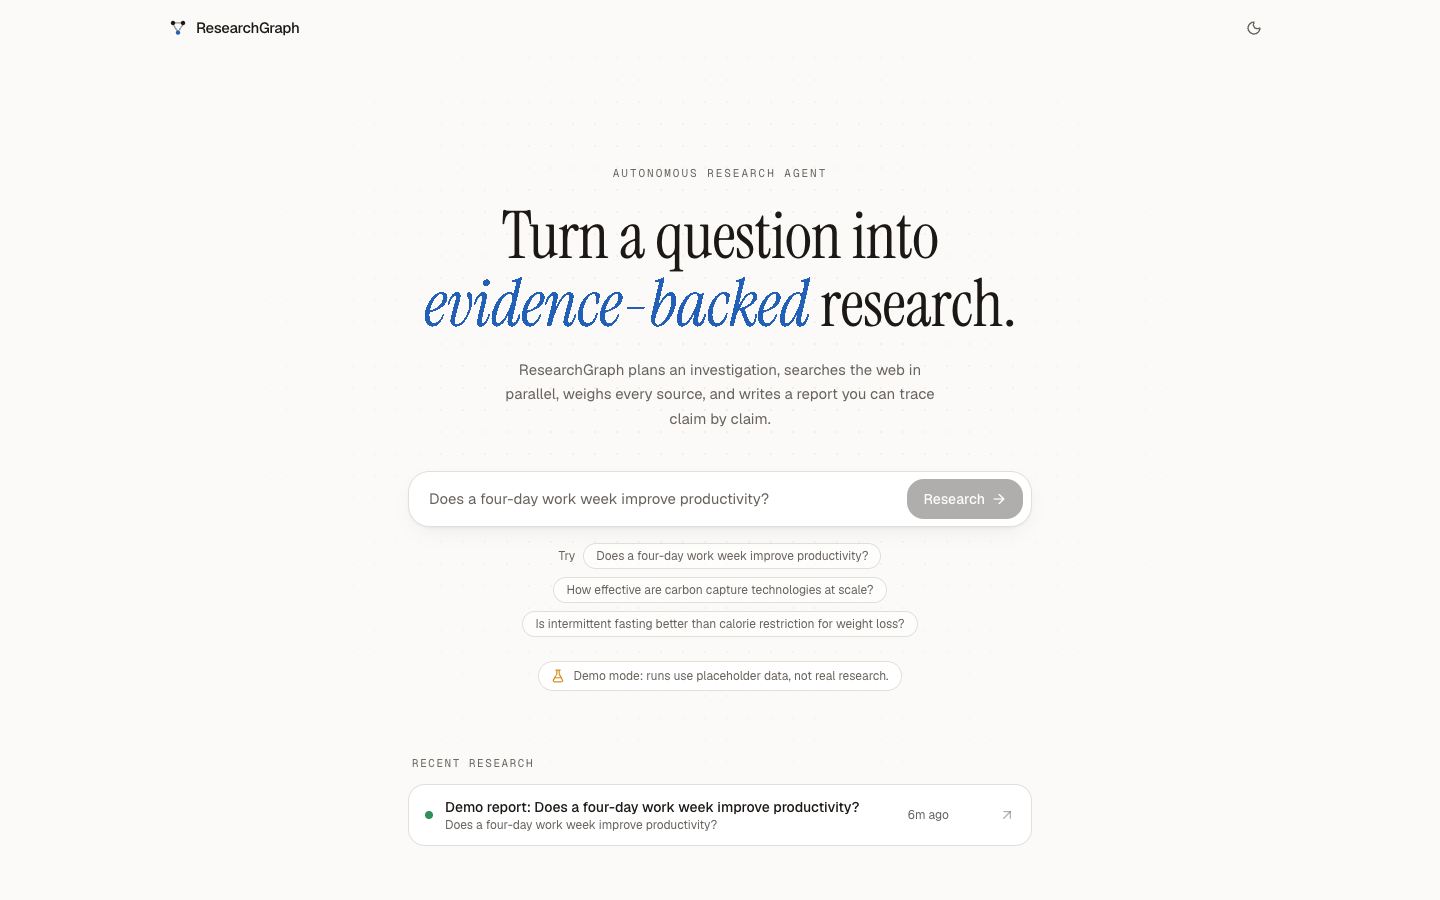
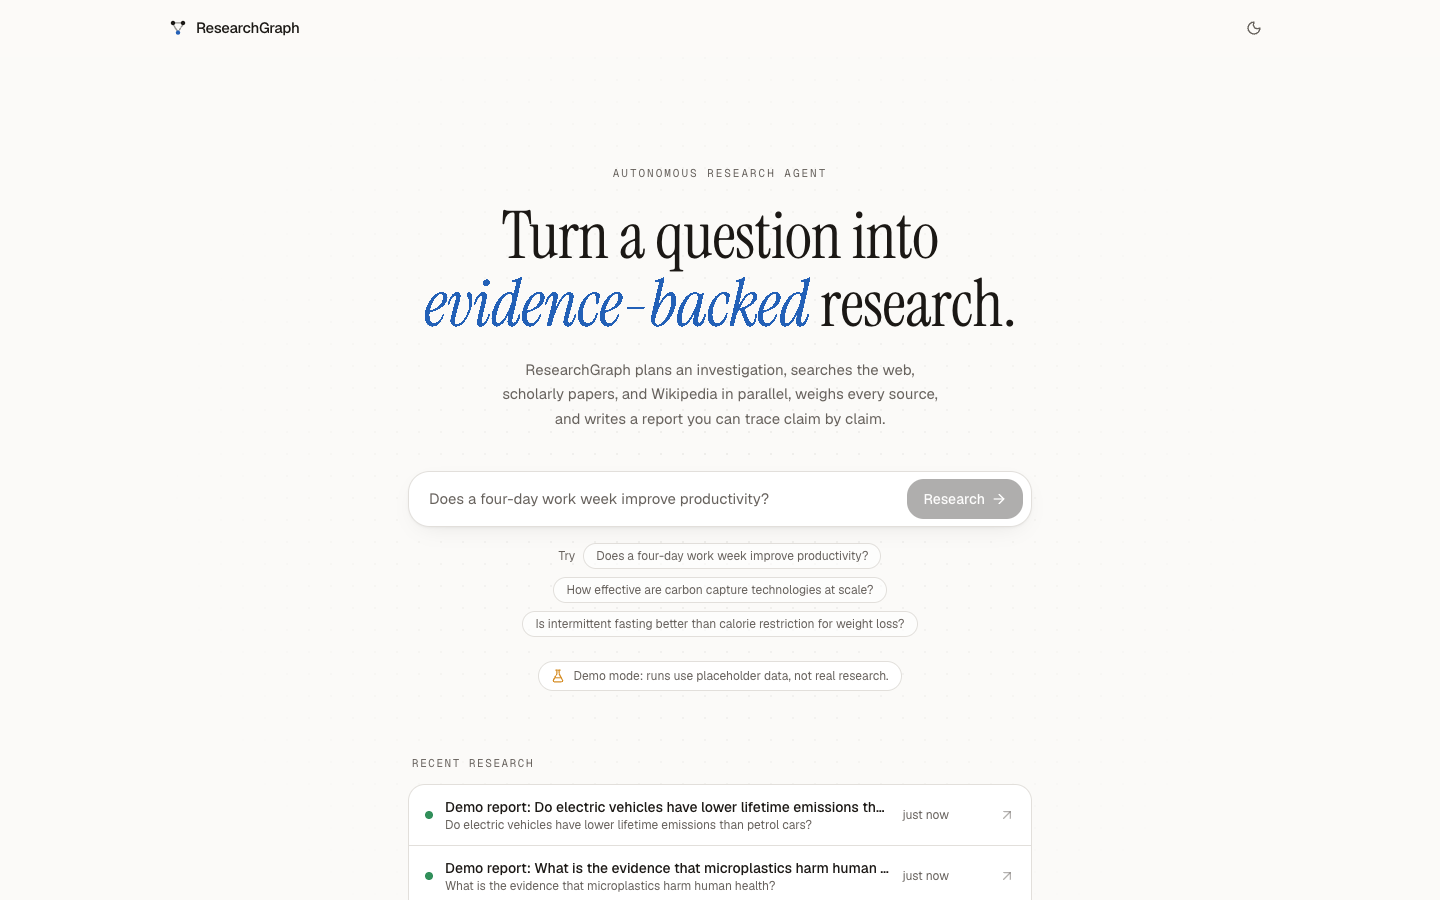
Add CI and document sources, cost, and guardrails
- GitHub Actions: backend pytest, frontend types/lint/tests/build,
  plus both Docker image builds on push and PRs
- README: multi-provider sources, observability and cost, cancel and
  rate-limit API, new config keys, updated structure and counts
- .env.example documents rate limits, proxy trust, and LangSmith keys
- Ignore SQLite WAL sidecars; refresh screenshots

diff --git a/README.md b/README.md
@@ -8,7 +8,7 @@ An autonomous research agent that plans an investigation, researches topics in p
 scores every source, verifies its quotes, cross-examines conflicting claims, and writes a
 report where every sentence links back to its evidence.
 
-LangGraph · LangChain · Claude · Tavily · FastAPI · SQLite · Next.js 16 · Tailwind v4 · shadcn/ui
+LangGraph · LangChain · Claude · Tavily · OpenAlex · Wikipedia · FastAPI · SQLite · Next.js 16 · Tailwind v4
 
 <img src="docs/images/home.png" alt="ResearchGraph home page" width="860" />
 
@@ -24,6 +24,8 @@ LangGraph · LangChain · Claude · Tavily · FastAPI · SQLite · Next.js 16 ·
 - [The agent graph](#the-agent-graph)
 - [Lifecycle of a run](#lifecycle-of-a-run)
 - [How answers stay grounded](#how-answers-stay-grounded)
+- [Sources](#sources)
+- [Observability and cost](#observability-and-cost)
 - [Project structure](#project-structure)
 - [API](#api)
 - [Configuration](#configuration)
@@ -41,16 +43,17 @@ Ask a question, and the agent works through seven steps you can watch live:
 | # | Step | What happens |
 |---|------|--------------|
 | 1 | **Plan** | Claude splits the question into up to 5 independent topics, each with its own search queries |
-| 2 | **Search** | Every topic is researched **in parallel** with Tavily web search |
-| 3 | **Evaluate** | Each source is scored for relevance and credibility; weak sources are filtered out |
-| 4 | **Extract** | Claims are pulled from the surviving sources, each with a verbatim supporting quote |
+| 2 | **Search** | Every topic is researched **in parallel** across the web, scholarly papers, and Wikipedia |
+| 3 | **Evaluate** | Each source is scored for relevance and credibility (plus recency for time-sensitive questions); weak sources are filtered out |
+| 4 | **Extract** | Claims are pulled from the full text of surviving sources, each with a verbatim supporting quote |
 | 5 | **Verify** | Quotes are checked against the source text in code; invented ones are flagged |
 | 6 | **Cross-check** | Evidence is compared across topics to find genuine disagreements |
 | 7 | **Synthesise** | A structured report is written; any citation the model invents is removed |
 
 The result has an executive summary, key findings, detailed analysis, conflicting evidence,
 limitations, a conclusion, and sources. Every `[n]` citation shows a preview of its source on
-hover and jumps to the source card on click.
+hover and jumps to the source card on click. Alongside the report, an **evidence quality**
+panel shows how much of it is verified and what the run cost.
 
 <table>
 <tr>
@@ -78,12 +81,15 @@ You need Python 3.11+ and Node 20+.
 cd backend
 python3 -m venv .venv
 .venv/bin/pip install -e ".[dev]"
-cp .env.example .env            # add ANTHROPIC_API_KEY and TAVILY_API_KEY
+cp .env.example .env            # add ANTHROPIC_API_KEY (TAVILY_API_KEY optional)
 .venv/bin/uvicorn app.api.main:app --reload --port 8000
 ```
 
-> **No API keys?** Set `DEMO_MODE=true` in `.env`. The real graph runs against a scripted
-> model and search engine with placeholder data, and the UI shows a demo banner.
+> **Keys:** only `ANTHROPIC_API_KEY` is required. OpenAlex and Wikipedia need no key; add
+> `TAVILY_API_KEY` to include general web search.
+>
+> **No keys at all?** Set `DEMO_MODE=true`. The real graph runs against a scripted model and
+> search engine with placeholder data, and the UI shows a demo banner.
 
 **2. Frontend**
 
@@ -125,7 +131,7 @@ flowchart LR
 
     subgraph External["External services"]
         Claude["Claude API"]
-        Tavily["Tavily Search"]
+        Search["Tavily · OpenAlex · Wikipedia"]
     end
 
     UI -- "POST /api/runs" --> API
@@ -136,13 +142,13 @@ flowchart LR
     Agent -- "progress events" --> Runs
     Runs -- "append / replay" --> DB
     Agent -- "LangChain" --> Claude
-    Agent -- "LangChain" --> Tavily
+    Agent -- "parallel queries" --> Search
 ```
 
 | Layer | Responsibility | Key files |
 |-------|----------------|-----------|
 | **Agent** | Orchestration, prompts, grounding checks | `backend/app/agent/` |
-| **Services** | Thin adapters for Claude and Tavily behind small interfaces | `backend/app/services/` |
+| **Services** | Thin adapters for Claude and three search providers behind small interfaces | `backend/app/services/` |
 | **API** | Starts runs, stores events, streams them over SSE | `backend/app/api/` |
 | **Frontend** | Turns the event stream into a live timeline and report | `frontend/src/` |
 
@@ -175,9 +181,9 @@ flowchart TB
 | Node | Model call | What it produces |
 |------|------------|------------------|
 | `plan_research` | Claude | A `ResearchPlan`: topics and search queries |
-| `search_sources` | none (Tavily) | Candidate sources, de-duplicated by URL |
-| `evaluate_sources` | Claude, `effort=low` | 1–5 relevance and credibility scores; code applies thresholds |
-| `analyze_topic` | Claude | Key points, each with a quote and source numbers |
+| `search_sources` | none | Candidates from all providers, interleaved and de-duplicated by URL |
+| `evaluate_sources` | Claude, `effort=low` | 1–5 relevance and credibility scores; code applies thresholds and recency |
+| `analyze_topic` | Claude | Key points from full text, each with a quote and source numbers |
 | `finalize_topic` | none | One `TopicResult`, the subgraph's only output |
 | `detect_conflicts` | Claude | Disagreements across topics, with a verdict |
 | `synthesize_report` | Claude | The final report, citations validated |
@@ -278,6 +284,38 @@ rather than producing an ungrounded report.
 
 ---
 
+## Sources
+
+Each search query goes to every enabled provider at once. Results are interleaved so no
+single provider crowds out the others, and a provider that fails is skipped, not fatal.
+
+| Provider | What it adds | Key | Metadata used |
+|----------|--------------|-----|---------------|
+| **Tavily** (web) | News, reports, institutional pages, with full page text | `TAVILY_API_KEY` | Publication date when available |
+| **OpenAlex** (papers) | 250M+ scholarly works: peer-reviewed articles, preprints, theses | none | Venue, year, authors, citation count, abstract |
+| **Wikipedia** (reference) | Encyclopedic background and definitions | none | Article introduction |
+
+The evaluator sees this metadata, so a review in a journal with 2,000 citations is judged
+differently from an anonymous blog. Real publication years from provider metadata override
+the model's reading of the page. When the planner marks a question **time-sensitive**
+(prices, policies, fast-moving research), recency counts for 20% of a source's score.
+
+Analysis reads each surviving source's full text (capped at 6,000 characters), not the
+search snippet, and quotes are verified against that same text.
+
+---
+
+## Observability and cost
+
+| What | How |
+|------|-----|
+| **Cost per run** | A LangChain callback (`UsageTracker`) is attached to the graph's config. LangGraph carries it into every model call inside every node, so tokens are counted without touching node code. Cost is priced per model and stored with the run |
+| **Evidence quality** | Computed in code for every report: verified-quote rate, sources cited vs. reviewed, independent domains, average credibility, source mix |
+| **Tracing** | Set `LANGSMITH_TRACING=true` and `LANGSMITH_API_KEY` to trace every graph step and model call in LangSmith |
+| **Guardrails** | `MAX_CONCURRENT_RUNS`, a per-client hourly limit (`RUNS_PER_HOUR_PER_CLIENT`), and a Stop button that cancels a run mid-flight |
+
+---
+
 ## Project structure
 
 ```
@@ -293,18 +331,20 @@ ResearchGraph/
 │   │   │   ├── nodes/            # planner, researcher, evaluator, conflicts, synthesizer
 │   │   │   ├── evidence.py       # quote verification
 │   │   │   ├── citations.py      # citation numbering + sanitising
-│   │   │   └── events.py         # progress events for the UI
+│   │   │   ├── events.py         # progress events for the UI
+│   │   │   └── usage.py          # token + cost tracking callback
 │   │   ├── services/
 │   │   │   ├── llm.py            # StructuredLLM interface → Claude
-│   │   │   └── search.py         # SearchClient interface → Tavily
+│   │   │   └── search/           # SearchClient interface → Tavily, OpenAlex, Wikipedia
 │   │   ├── api/
 │   │   │   ├── main.py           # routes, SSE endpoint, app factory
-│   │   │   ├── runs.py           # background runs + live fan-out
-│   │   │   └── store.py          # SQLite runs + event log
+│   │   │   ├── runs.py           # background runs, cancellation, live fan-out
+│   │   │   ├── ratelimit.py      # per-client sliding window
+│   │   │   └── store.py          # SQLite runs + event log, migrations
 │   │   ├── demo.py               # scripted LLM/search for DEMO_MODE
 │   │   ├── config.py
 │   │   └── cli.py
-│   ├── tests/                    # 42 tests, fully offline
+│   ├── tests/                    # 62 tests, fully offline
 │   └── Dockerfile
 ├── frontend/
 │   ├── src/
@@ -313,6 +353,7 @@ ResearchGraph/
 │   │   ├── hooks/                # EventSource subscription
 │   │   └── components/           # home, research timeline, report, citations
 │   └── Dockerfile
+├── .github/workflows/ci.yml      # tests, lint, types, build, Docker images
 ├── docker-compose.yml
 └── docs/images/
 ```
@@ -327,10 +368,12 @@ ResearchGraph/
 | `GET` | `/api/runs` | Recent runs, newest first (`?limit=`, max 100) |
 | `GET` | `/api/runs/{id}` | One run, including the report once completed |
 | `GET` | `/api/runs/{id}/events` | Server-Sent Events: replays stored events, then streams live. Honours `Last-Event-ID` |
+| `POST` | `/api/runs/{id}/cancel` | Stop a run in progress (`202`; `409` if it isn't running) |
 | `DELETE` | `/api/runs/{id}` | Delete a finished run (`409` while running) |
-| `GET` | `/api/health` | `{status, configured, demo}` |
+| `GET` | `/api/health` | `{status, configured, demo, providers}` |
 
-Errors: `422` invalid question · `429` too many concurrent runs · `503` server has no API keys.
+Errors: `422` invalid question · `429` too many concurrent runs or hourly limit reached
+(with `Retry-After`) · `503` server has no API keys.
 
 ---
 
@@ -340,7 +383,10 @@ Backend settings come from environment variables or `backend/.env`.
 
 | Variable | Default | Purpose |
 |----------|---------|---------|
-| `ANTHROPIC_API_KEY`, `TAVILY_API_KEY` | — | Required for real research |
+| `ANTHROPIC_API_KEY` | — | Required for real research |
+| `TAVILY_API_KEY` | — | Optional: enables web search |
+| `SEARCH_PROVIDERS` | `["web","academic","reference"]` | Which providers to query |
+| `OPENALEX_EMAIL` | — | Optional: OpenAlex's faster "polite pool" |
 | `CLAUDE_MODEL` | `claude-opus-5-5` | Model used at every step |
 | `CLAUDE_EFFORT` | `medium` | Default reasoning effort (source rating always uses `low`) |
 | `CLAUDE_FALLBACKS` | `true` | Server-side fallback if a request is declined |
@@ -348,6 +394,9 @@ Backend settings come from environment variables or `backend/.env`.
 | `RESULTS_PER_QUERY` | `5` | Search results per query |
 | `MAX_SOURCES_PER_TOPIC` | `6` | Sources kept after evaluation |
 | `MAX_CONCURRENT_RUNS` | `3` | Protects your API quota |
+| `RUNS_PER_HOUR_PER_CLIENT` | `20` | Per-IP limit on new runs (`0` disables) |
+| `TRUST_PROXY_HEADERS` | `false` | Read client IPs from `X-Forwarded-For` behind a proxy |
+| `LANGSMITH_TRACING`, `LANGSMITH_API_KEY` | off | Trace runs in LangSmith |
 | `DATABASE_PATH` | `researchgraph.db` | SQLite file |
 | `CORS_ORIGINS` | `["http://localhost:3000"]` | Allowed frontend origins (JSON list) |
 | `DEMO_MODE` | `false` | Placeholder data, no keys needed |
@@ -359,8 +408,8 @@ Frontend: `NEXT_PUBLIC_API_URL` (default `http://localhost:8000`).
 ## Testing
 
 ```bash
-cd backend  && .venv/bin/pytest      # 42 tests: graph, parallelism, grounding, API, SSE, persistence
-cd frontend && npx vitest run        # 12 tests: event reducer, timeline steps, citation parsing
+cd backend  && .venv/bin/pytest      # 62 tests: graph, providers, grounding, cost, API, SSE, persistence
+cd frontend && npx vitest run        # 14 tests: event reducer, timeline steps, citation parsing
 ```
 
 The backend tests need no network or API keys. The agent's two dependencies are interfaces
@@ -368,10 +417,15 @@ The backend tests need no network or API keys. The agent's two dependencies are 
 second. The tests check behaviour that's easy to get wrong:
 
 - topics really run concurrently
-- a failed branch doesn't sink the run
-- invented citations are removed
+- a failed branch or search provider doesn't sink the run
+- invented citations are removed and the rest renumbered in reading order
 - fabricated quotes are flagged
-- SSE resumes correctly from `Last-Event-ID`
+- token usage is captured from inside parallel subgraphs
+- SSE resumes from `Last-Event-ID`, and never misses a final event that races with completion
+- old databases are migrated on startup
+
+CI (`.github/workflows/ci.yml`) runs all of this, plus type checks, lint, the production
+build and both Docker images, on every push and pull request.
 
 ---
 
@@ -395,6 +449,8 @@ The SSE stream sends a keepalive every 15 s, so any proxy timeout above about 30
 | Model scores, code decides | Deterministic, unit-tested thresholds, tunable without prompt changes | Scores are coarse (1–5) |
 | Native structured outputs (`method="json_schema"`) | Typed, validated responses; current Claude models reject forced tool calls | — |
 | Per-call `effort` | Cheap, fast `low` effort for rating sources; default effort for reasoning | — |
+| Multiple search providers behind one interface | Papers and encyclopedic sources balance the open web; keyless providers mean research works with only a Claude key | More candidates to evaluate per topic |
+| Single database worker thread | SQLite writes execute in submission order, even when a run is cancelled mid-write | One query at a time (ample for this load) |
 | Append-only event log in SQLite | Replay, history, and reconnects from one mechanism; no Redis or queue | Single API instance |
 | SSE instead of WebSockets | One-way updates, plain HTTP, built-in browser reconnect | Server → client only |
 | Pure reducer on the frontend | Live view and history share one code path; trivially testable | — |
@@ -408,14 +464,13 @@ unchanged.
 
 ## Limitations
 
-- **Snippets, not full pages.** Sources are judged on the extracts Tavily returns, not on
-  full documents.
-- **Recency is recorded, not scored.** Publication year appears in labels but doesn't affect
-  ranking.
-- **One process.** Runs, live signalling, and SQLite share a single backend instance (see
-  above).
-- **No authentication.** Anyone with the URL can start runs; `MAX_CONCURRENT_RUNS` is the
-  only guard on API spend.
+- **Capped full text.** Analysis reads up to 6,000 characters per source, and only abstracts
+  for papers (OpenAlex doesn't provide full papers). Long documents are truncated.
+- **English Wikipedia only.** The reference provider queries `en.wikipedia.org`.
+- **One process.** Runs, live signalling, rate limits, and SQLite share a single backend
+  instance (see above).
+- **No user accounts.** Spend is protected by rate and concurrency limits, not by
+  authentication.
 
 ---
 
